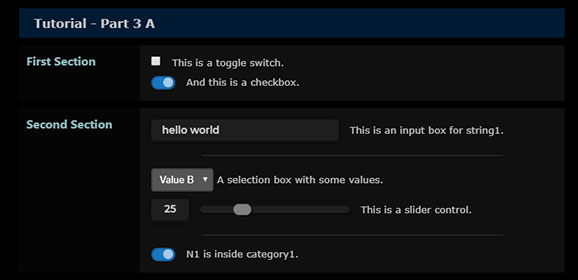
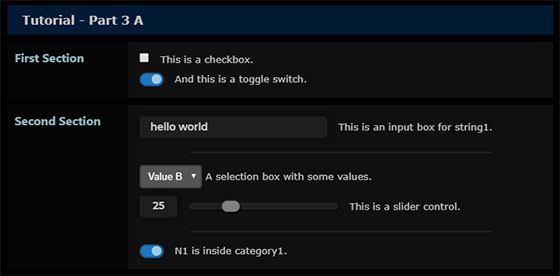
part 3 tutorial image fixed

diff --git a/WebResources/Tutorials/code/t3a.js b/WebResources/Tutorials/code/t3a.js
@@ -27,8 +27,8 @@
     
         let section = sp.addSection("First Section");
     
-        section.addBoolean("bool1", "This is a toggle switch.", {useToggle: false});
-        section.addBoolean("bool2", "And this is a checkbox.");
+        section.addBoolean("bool1", "This is a checkbox.", {useToggle: false});
+        section.addBoolean("bool2", "And this is a toggle switch.");
     
         let section2 = sp.addSection("Second Section");
         section2.addString("string1", "This is an input box for string1.", {maxLength: 10});

diff --git a/Extensions-part3.md b/Extensions-part3.md
@@ -92,7 +92,7 @@ Sections are visual separations of the Settings Window. It's useful to separate 
 
 Take this example. Here, the StarMash v.2 Theme uses three different sections: Background, Asteroid field and Decorative Objects.
 
-![Settings Sections](https://molesmalo.github.io/StarWarsMod4AirMash/WebResources/Tutorials/settings-sections.png)
+![Settings Sections](https://molesmalo.github.io/StarWarsMod4AirMash/WebResources/Tutorials/settings-sections.jpg)
 
 The main mod settings also uses three different sections: General, Interface and Audio.
 
@@ -191,8 +191,8 @@ Let's create an extension that does nothing but provide settings.
     
         let section = sp.addSection("First Section");
     
-        section.addBoolean("bool1", "This is a toggle switch.", {useToggle: false});
-        section.addBoolean("bool2", "And this is a checkbox.");
+        section.addBoolean("bool1", "This is a checkbox.", {useToggle: false});
+        section.addBoolean("bool2", "And this is a toggle switch.");
     
         let section2 = sp.addSection("Second Section");
         section2.addString("string1", "This is an input box for string1.", {maxLength: 10});
